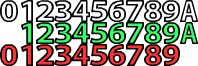
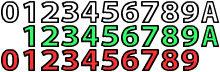
Commit #2
Added all three numbers, fixed positioning, put spacing in numbers
spritesheet

diff --git a/PhaserMVC/static/js/GameObjects.js b/PhaserMVC/static/js/GameObjects.js
@@ -1,16 +1,27 @@
 /// <reference path="phaser.js" />
 /// <reference path="main.js" />
+/// <reference path="phaser.js" />
+/// <reference path="main.js" />
 Card = function (point, group) {
     this.position = point;
-    this.cardImg = game.add.sprite(this.position.x, this.position.y, 'cardFrameSheet', 4, group);
-    this.numberLeft = game.add.sprite(this.position.x - Math.round(62 * scale), 
-                                      this.position.y - Math.round(20 * scale), 'numberSheet', 0);
-    this.numberLeft.anchor.setTo(0.5, 0.5);
-    this.cardImg.anchor.setTo(0.5, 0.5);
+    var cardImg = game.add.sprite(this.position.x, this.position.y, 'cardFrameSheet', 3, group);
+    cardImg.anchor.setTo(0.5, 0.5);
+
+    var buffer = 3;
+    var numberLeft = game.add.sprite(-cardImg.width / 2+buffer, -cardImg.height/4+buffer, 'numberSheet', 1); 
+    var numberBottom = game.add.sprite(0, cardImg.height/2.3+buffer, 'numberSheet', 7);   
+    numberBottom.anchor.setTo(0.5, 1);
+    var numberRight = game.add.sprite(cardImg.width / 3+buffer, -cardImg.height/4+buffer, 'numberSheet', 3);
+
+    //we'll bing all the sprites to the cardImg one and then they'll follow the cardImg as it's dragged
+    cardImg.addChild(numberLeft);
+    cardImg.addChild(numberBottom);
+    cardImg.addChild(numberRight);
+    
     this.origPos = CopyObject(point);
-    this.cardImg.inputEnabled = true;
-    this.cardImg.input.enableDrag(true);
-    this.cardImg.events.onDragStop.add(this.dragStop, this);
+    cardImg.inputEnabled = true;
+    cardImg.input.enableDrag(true);
+    cardImg.events.onDragStop.add(this.dragStop, this);
     
 }
 
@@ -33,8 +44,4 @@ Card.prototype.dragStop = function(cardImg){
     if(!onBoard){
         cardImg.position = CopyObject(this.origPos);
     }
-}
-
-Card.prototype.update = function () {
-    this.numberLeft.x = this.position.x;
 }

diff --git a/PhaserMVC/static/js/main.js b/PhaserMVC/static/js/main.js
@@ -11,7 +11,7 @@ var mainState = {
         //Load Art Assets
         game.load.image('gameBoard', 'img/GameBoard.png');
         game.load.image('handBoard', 'img/HandBoard.png');
-        game.load.spritesheet('numberSheet', 'img/numbers.png', 18, 22, 33);
+        game.load.spritesheet('numberSheet', 'img/numbers.png', 18, 22, 33, 1, 2);
         game.load.spritesheet('cardFrameSheet', 'img/FrameSheet.png', 150, 140, 6);
         
     },
